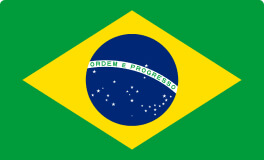
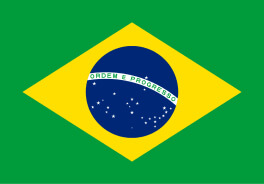
Add countries list

diff --git a/index.html b/index.html
@@ -30,17 +30,236 @@
   <!-- MAIN-CONTENT -->
    <main class="main-content">
     <div class="container">
-      <form class="filters" action="https://echo.htmlacademy.ru" method="GET">
-        <input class="filters-search-input" type="search" name="search" placeholder="Search for a country…" aria-label="Country name" required>
-        <select class="filters-region-select" name="region" aria-label="Regions">
-          <option selected disabled>Filter by Region</option>
-          <option>Africa</option>
-          <option>America</option>
-          <option>Asia</option>
-          <option>Europe</option>
-          <option>Oceania</option>
-        </select>
-      </form>
+      <section>
+        <!-- <h2>Filtrlar</h2> -->
+        <form class="filters" action="https://echo.htmlacademy.ru" method="GET">
+          <input class="filters-search-input" type="search" name="search" placeholder="Search for a country…" aria-label="Country name" required>
+          <select class="filters-region-select" name="region" aria-label="Regions">
+            <option selected disabled>Filter by Region</option>
+            <option>Africa</option>
+            <option>America</option>
+            <option>Asia</option>
+            <option>Europe</option>
+            <option>Oceania</option>
+          </select>
+        </form>
+      </section>
+
+
+      <!-- INDEX-COUNTRIES -->
+      <section class="index-countries">
+        <!-- <h2>Countries</h2> -->
+         <ul class="index-countries-list">
+          <li class="index-countries-item">
+            <div class="index-country">
+              <img class="index-country-flag" src="img/flag-germany.jpg" alt="Germany flag" width="264" height="160" srcset="img/flag-germany.jpg 1x, img/flag-germany@2x.jpg 2x">
+              <div class="index-country-info">
+                <h3 class="index-country-name">
+                  <a class="index-country-link" href="country.html">
+                    Germany
+                  </a>
+                </h3>
+                <dl class="index-country-details">
+                  <div class="index-country-details-item">
+                    <dt class="index-country-details-title">Population:</dt>
+                    <dd class="index-country-details-value">81,770,900</dd>
+                  </div>
+                  <div class="index-country-details-item">
+                    <dt class="index-country-details-title">Region:</dt>
+                    <dd class="index-country-details-value">Europe</dd>
+                  </div>
+                  <div class="index-country-details-item">
+                    <dt class="index-country-details-title">Capital:</dt>
+                    <dd class="index-country-details-value">Berlin</dd>
+                  </div>
+                </dl>
+              </div>
+            </div>
+          </li>
+          <li class="index-countries-item">
+            <div class="index-country">
+              <img class="index-country-flag" src="img/flag-usa.jpg" alt="United States of America flag" width="264" height="160" srcset="img/flag-usa.jpg 1x, img/flag-usa@2x.jpg 2x">
+              <div class="index-country-info">
+                <h3 class="index-country-name">
+                  <a class="index-country-link" href="country.html">
+                    United States of America
+                  </a>
+                </h3>
+                <dl class="index-country-details">
+                  <div class="index-country-details-item">
+                    <dt class="index-country-details-title">Population:</dt>
+                    <dd class="index-country-details-value">323,947,000</dd>
+                  </div>
+                  <div class="index-country-details-item">
+                    <dt class="index-country-details-title">Region:</dt>
+                    <dd class="index-country-details-value">Americas</dd>
+                  </div>
+                  <div class="index-country-details-item">
+                    <dt class="index-country-details-title">Capital:</dt>
+                    <dd class="index-country-details-value">Washington, D.C.</dd>
+                  </div>
+                </dl>
+              </div>
+            </div>
+          </li>
+          <li class="index-countries-item">
+            <div class="index-country">
+              <img class="index-country-flag" src="img/flag-brazil.jpg" alt="Brazil flag" width="264" height="160" srcset="img/flag-brazil.jpg 1x, img/flag-brazil@2x.jpg 2x">
+              <div class="index-country-info">
+                <h3 class="index-country-name">
+                  <a class="index-country-link" href="country.html">
+                    Brazil
+                  </a>
+                </h3>
+                <dl class="index-country-details">
+                  <div class="index-country-details-item">
+                    <dt class="index-country-details-title">Population:</dt>
+                    <dd class="index-country-details-value">206,135,893</dd>
+                  </div>
+                  <div class="index-country-details-item">
+                    <dt class="index-country-details-title">Region:</dt>
+                    <dd class="index-country-details-value">Americas</dd>
+                  </div>
+                  <div class="index-country-details-item">
+                    <dt class="index-country-details-title">Capital:</dt>
+                    <dd class="index-country-details-value">Brasília</dd>
+                  </div>
+                </dl>
+              </div>
+            </div>
+          </li>
+          <li class="index-countries-item">
+            <div class="index-country">
+              <img class="index-country-flag" src="img/flag-iceland.jpg" alt="Iceland flag" width="264" height="160" srcset="img/flag-iceland.jpg 1x, img/flag-iceland@2x.jpg 2x">
+              <div class="index-country-info">
+                <h3 class="index-country-name">
+                  <a class="index-country-link" href="country.html">
+                    Iceland
+                  </a>
+                </h3>
+                <dl class="index-country-details">
+                  <div class="index-country-details-item">
+                    <dt class="index-country-details-title">Population:</dt>
+                    <dd class="index-country-details-value">334,300</dd>
+                  </div>
+                  <div class="index-country-details-item">
+                    <dt class="index-country-details-title">Region:</dt>
+                    <dd class="index-country-details-value">Europe</dd>
+                  </div>
+                  <div class="index-country-details-item">
+                    <dt class="index-country-details-title">Capital:</dt>
+                    <dd class="index-country-details-value">Reykjavík</dd>
+                  </div>
+                </dl>
+              </div>
+            </div>
+          </li>
+          <li class="index-countries-item">
+            <div class="index-country">
+              <img class="index-country-flag" src="img/flag-ex-afghanistan.jpg" alt="Afghanistan flag" width="264" height="160" srcset="img/flag-ex-afghanistan.jpg 1x, img/flag-ex-afghanistan@2x.jpg 2x">
+              <div class="index-country-info">
+                <h3 class="index-country-name">
+                  <a class="index-country-link" href="country.html">
+                    Afghanistan
+                  </a>
+                </h3>
+                <dl class="index-country-details">
+                  <div class="index-country-details-item">
+                    <dt class="index-country-details-title">Population:</dt>
+                    <dd class="index-country-details-value">27,657,145</dd>
+                  </div>
+                  <div class="index-country-details-item">
+                    <dt class="index-country-details-title">Region:</dt>
+                    <dd class="index-country-details-value">Asia</dd>
+                  </div>
+                  <div class="index-country-details-item">
+                    <dt class="index-country-details-title">Capital:</dt>
+                    <dd class="index-country-details-value">Kabul</dd>
+                  </div>
+                </dl>
+              </div>
+            </div>
+          </li>
+          <li class="index-countries-item">
+            <div class="index-country">
+              <img class="index-country-flag" src="img/flag-aland.jpg" alt="Åland Islands flag" width="264" height="160" srcset="img/flag-aland.jpg 1x, img/flag-aland@2x.jpg 2x">
+              <div class="index-country-info">
+                <h3 class="index-country-name">
+                  <a class="index-country-link" href="country.html">
+                    Åland Islands
+                  </a>
+                </h3>
+                <dl class="index-country-details">
+                  <div class="index-country-details-item">
+                    <dt class="index-country-details-title">Population:</dt>
+                    <dd class="index-country-details-value">28,875</dd>
+                  </div>
+                  <div class="index-country-details-item">
+                    <dt class="index-country-details-title">Region:</dt>
+                    <dd class="index-country-details-value">Europe</dd>
+                  </div>
+                  <div class="index-country-details-item">
+                    <dt class="index-country-details-title">Capital:</dt>
+                    <dd class="index-country-details-value">Mariehamn</dd>
+                  </div>
+                </dl>
+              </div>
+            </div>
+          </li>
+          <li class="index-countries-item">
+            <div class="index-country">
+              <img class="index-country-flag" src="img/flag-albania.jpg" alt="Albania flag" width="264" height="160" srcset="img/flag-albania.jpg 1x, img/flag-albania@2x.jpg 2x">
+              <div class="index-country-info">
+                <h3 class="index-country-name">
+                  <a class="index-country-link" href="country.html">
+                    Albania
+                  </a>
+                </h3>
+                <dl class="index-country-details">
+                  <div class="index-country-details-item">
+                    <dt class="index-country-details-title">Population:</dt>
+                    <dd class="index-country-details-value">2,886,026</dd>
+                  </div>
+                  <div class="index-country-details-item">
+                    <dt class="index-country-details-title">Region:</dt>
+                    <dd class="index-country-details-value">Europe</dd>
+                  </div>
+                  <div class="index-country-details-item">
+                    <dt class="index-country-details-title">Capital:</dt>
+                    <dd class="index-country-details-value">Tirana</dd>
+                  </div>
+                </dl>
+              </div>
+            </div>
+          </li>
+          <li class="index-countries-item">
+            <div class="index-country">
+              <img class="index-country-flag" src="img/flag-algeria.jpg" alt="Algeria flag" width="264" height="160" srcset="img/flag-algeria.jpg 1x, img/flag-algeria@2x.jpg 2x">
+              <div class="index-country-info">
+                <h3 class="index-country-name">
+                  <a class="index-country-link" href="country.html">
+                    Algeria
+                  </a>
+                </h3>
+                <dl class="index-country-details">
+                  <div class="index-country-details-item">
+                    <dt class="index-country-details-title">Population:</dt>
+                    <dd class="index-country-details-value">40,400,000</dd>
+                  </div>
+                  <div class="index-country-details-item">
+                    <dt class="index-country-details-title">Region:</dt>
+                    <dd class="index-country-details-value">Africa</dd>
+                  </div>
+                  <div class="index-country-details-item">
+                    <dt class="index-country-details-title">Capital:</dt>
+                    <dd class="index-country-details-value">Algiers</dd>
+                  </div>
+                </dl>
+              </div>
+            </div>
+          </li>
+         </ul>
+      </section>
     </div>
    </main>
 

diff --git a/css/style.css b/css/style.css
@@ -173,6 +173,7 @@ a {
   display: flex;
   justify-content: space-between;
   align-items: center;
+  margin-bottom: 48px;
 }
 
 .filters-search-input {
@@ -191,6 +192,77 @@ a {
   border: 0;
   border-radius: 5px;
   background-color: var(--element-bg);
-  color: var(--text-color)
+  color: var(--text-color);
   box-shadow: 0px 2px 9px 0px rgba(0, 0, 0, 0.06);
+}
+
+
+/* INDEX-COUNTRIES */
+.index-countries-list {
+  display: flex;
+  flex-wrap: wrap;
+  padding: 0;
+  margin: 0;
+  margin-left: -75px;
+  margin-bottom: -75px;
+  list-style: none;
+}
+
+.index-countries-item {
+  width: calc(25% - 75px);
+  margin-left: 75px;
+  margin-bottom: 75px;
+}
+
+
+/* INDEX-COUNTRY */
+.index-country {
+  border-radius: 7px;
+  overflow: hidden;
+  background-color: var(--element-bg);
+  color: var(--text-color);
+  box-shadow: 0px 0px 7px 2px rgba(0, 0, 0, 0.03);
+}
+
+.index-country-flag {
+  width: 100%;
+  height: 160px;
+  object-fit: cover;
+}
+
+.index-country-info {
+  padding: 24px 24px 48px;
+}
+
+.index-country-name {
+  margin-top: 0;
+  margin-bottom: 16px;
+  font-size: 17px;
+  line-height: 26px;
+  font-weight: 800;
+}
+
+.index-country-link {
+  color: var(--text-color);
+}
+
+.index-country-details {
+  margin: 0;
+}
+
+.index-country-details-item {
+  display: flex;
+  flex-wrap: wrap;
+}
+
+.index-country-details-item:not(:last-child) {
+  margin-bottom: 8px;
+}
+
+.index-country-details-title {
+  font-weight: 600;
+}
+
+.index-country-details-value {
+  margin-left: 4px;
 }
